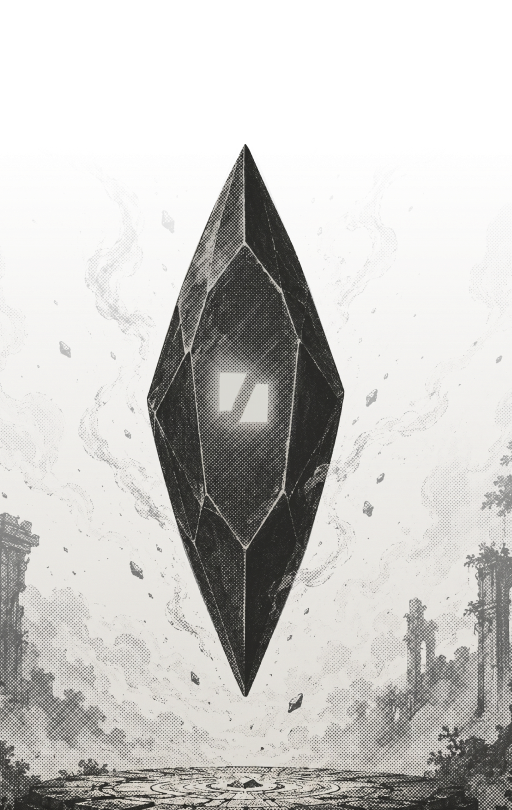
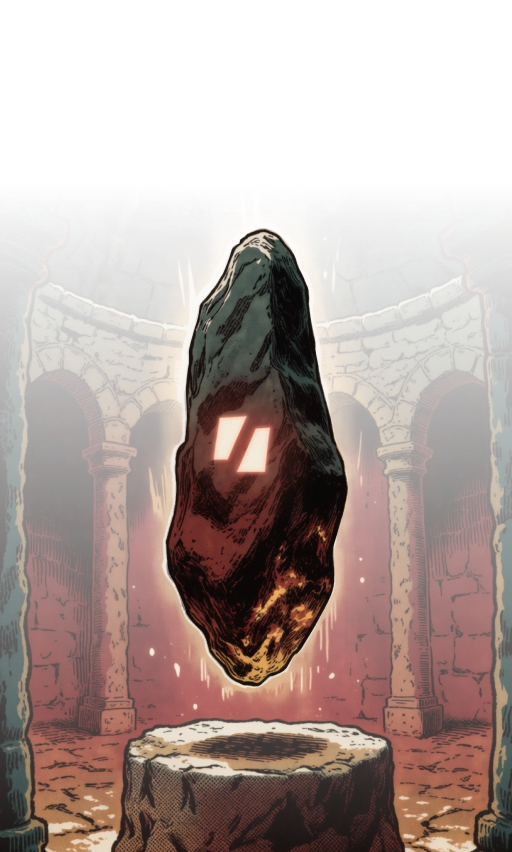
Update Keystone onboarding illustration

diff --git a/lib/src/features/onboarding/keystone/keystone_onboarding_flow.dart b/lib/src/features/onboarding/keystone/keystone_onboarding_flow.dart
@@ -227,7 +227,11 @@ class _SidebarIllustration extends StatelessWidget {
         child: SizedBox(
           width: _frameWidth,
           height: _frameHeight,
-          child: Image.asset(asset, fit: BoxFit.cover),
+          child: Image.asset(
+            asset,
+            fit: BoxFit.cover,
+            alignment: Alignment.bottomCenter,
+          ),
         ),
       ),
     );